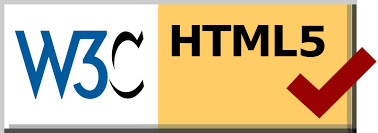
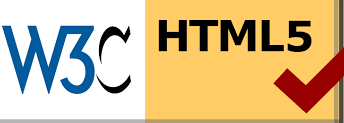
Add files via upload

diff --git a/thin_white_duke.html b/thin_white_duke.html
@@ -28,6 +28,7 @@
 						<li><a href="thin_white_duke.html"><span class="italic">Thin White Duke</span></a></li>
 						<li><a href="pierrot.html"><span class="italic">Pierrot</span></a></li>
 						<li><a href="references.html"><span class="italic">References</span></a></li>
+						<li><a href="#top"><span class="italic">(Top of the Page)</span></a></li>
 					</ul>
 				</div>
 			</nav>
@@ -36,7 +37,7 @@
                 	<h2 class = "quote whitequote"><span class="bold"><span class="italic">"Should I believe that I've been stricken?</span></span></h2> 
                 	<h2 class = "quote whitequote"><span class="bold"><span class="italic">Does my face show some kind of glow?"</span></span></h2>
                 	<br>
-                	<p id ="quoteauthor2">- Bowie, <span class="italic">Station to Station</span> from album <span class="italic">Station to Station</span>, 1976</p>
+                	<p id ="quoteauthor2">- Bowie, <span class="italic">Station to Station</span> from album <span="italic">Station to Station</span>, 1976</p>
 			
 			<h1><br></h1>
 			<p class="descriptioncenter dukecolor bigdescriptiontext explanationpage">In 1976, David Bowie transformed into his darkest character. Fueled by the drug habits he had developed over the past few years, Bowie became the Thin White Duke, a persona inspired by Old European and fascist mythology. This nasty and emotionless character not only drove Bowie to new heights artistically, but also marked the lowest point in Bowie’s life.</p>
@@ -90,14 +91,26 @@
 
 			<h1><br></h1>
 			<h2 class="headingright dukeheadercolor">Appearances</h2>
-			<p class="descriptionright dukecolor">The Duke appeared in interviews Bowie partook in 1976, the artwork for Station to Station era music and on the Isolar tour, the tour that followed the release of the <span class="italic">Station to Station</span> album. Bowie’s public image was hurt by the Duke’s appearances, since controversy was raised over the Duke’s statements and actions. Examples include when the Duke performed the nazi salute in front of a crowd of people while making his way to a performance or when the Duke claimed that Hitler was the first true rockstar. Bowie eventually stated years later that this was all performance art and that he didn’t truly believe in fascism, but then again, who would admit to once liking the Nazis. Eventually though, Bowie quietly retired the character after moving to Berlin the next year to try to kick his drug addiciton.</p>
+			<p class="descriptionright dukecolor">The Duke appeared in interviews Bowie partook in 1976, the artwork for Station to Station era music and on the Isolar tour, the tour that followed the release of the <span="italic">Station to Station</span> album. Bowie’s public image was hurt by the Duke’s appearances, since controversy was raised over the Duke’s statements and actions. Examples include when the Duke performed the nazi salute in front of a crowd of people while making his way to a performance or when the Duke claimed that Hitler was the first true rockstar. Bowie eventually stated years later that this was all performance art and that he didn’t truly believe in fascism, but then again, who would admit to once liking the Nazis. Eventually though, Bowie quietly retired the character after moving to Berlin the next year to try to kick his drug addiciton.</p>
 			<h1><br></h1>
 			<div class="aligncenter">
 				<img class="widecenteredimage displayblock" src="images/thin_white_duke.jpg" alt="Thin White Duke Performing" width="900">
 			</div>
 			<h1><br></h1>
-			
-			
+
+			<footer class="footercolor">
+				<p>
+    					<a href="https://jigsaw.w3.org/css-validator/validator?uri=https%3A%2F%2Fwanjonathan.github.io%2Fhome%2Fthin_white_duke.html&profile=css3svg&usermedium=all&warning=1&vextwarning=&lang=en">
+        				<img class="valid" src="https://jigsaw.w3.org/css-validator/images/vcss" alt="Valid CSS!">
+    					</a>
+				</p>
+				<p>
+    					<a href="https://validator.w3.org/nu/?doc=https%3A%2F%2Fwanjonathan.github.io%2Fhome%2Fthin_white_duke.html">
+        				<img class="valid" src="images/html_validator.png" alt="Valid HTML!">
+    					</a>
+				</p>
+			</footer>
+	
 		</div>
   	</body>
 </html>

diff --git a/pierrot.html b/pierrot.html
@@ -27,6 +27,7 @@
 							<li><a href="thin_white_duke.html"><span class="italic">Thin White Duke</span></a></li>
 							<li><a href="pierrot.html"><span class="italic">Pierrot</span></a></li>
 							<li><a href="references.html"><span class="italic">References</span></a></li>
+							<li><a href="#top"><span class="italic">(Top of the Page)</span></a></li>
 						</ul>
 					</div>
 				</div>
@@ -102,6 +103,19 @@
 			<h2 class="headingright pierrotheadercolor">Appearances</h2>
 			<p class="descriptionright pierrotcolor">Unlike other Bowie personas, Pierrot only existed for a small span of Bowie's career and Pierrot never really interacted with the public like Ziggy Stardust or the Thin White Duke did. Instead, Pierrot was confined to simply the album's artwork and the "Ashes to Ashes" music video. In the "Ashes to Ashes" music video, Pierrot narrates the downfall of one of Bowie's other personas, Major Tom, while the video of him and his surroundings is deepfried in the music video. Meanwhile, Pierrot is heavily depicted in the artwork of the singles and the album. For example, a sketch of Pierrot is proudly displayed on the album's artwork. After the album's run ended, the persona of Pierrot was quietly retired and promptly forgotten to most David Bowie fans.</p>
 			<h1><br></h1>
+
+			<footer class="footercolor">
+				<p>
+    					<a href="https://jigsaw.w3.org/css-validator/validator?uri=https%3A%2F%2Fwanjonathan.github.io%2Fbowiepersonas%2Fpierrot.html&profile=css3svg&usermedium=all&warning=1&vextwarning=&lang=en">
+        				<img class="valid" src="https://jigsaw.w3.org/css-validator/images/vcss" alt="Valid CSS!">
+    					</a>
+				</p>
+				<p>
+    					<a href="https://validator.w3.org/nu/?doc=https%3A%2F%2Fwanjonathan.github.io%2Fhome%2Fpierrot.html">
+        				<img class="valid" src="images/html_validator.png" alt="Valid HTML!">
+    					</a>
+				</p>
+			</footer>
 		
 		</div>
   	</body>

diff --git a/index.html b/index.html
@@ -28,6 +28,7 @@
 						<li><a href="thin_white_duke.html"><span class="italic">Thin White Duke</span></a></li>
 						<li><a href="pierrot.html"><span class="italic">Pierrot</span></a></li>
 						<li><a href="references.html"><span class="italic">References</span></a></li>
+						<li><a href="#top"><span class="italic">(Top of the Page)</span></a></li>
 					</ul>
 				</div>
 			</nav>
@@ -74,14 +75,20 @@
 				<p class="descriptioncenter">For a comprehensive list of Bowie personas, try exploring the <a href="https://david-bowie.fandom.com/wiki/Category:Personas">Bowie fandom</a>.</p>
 				<h1><br></h1>
 			</div>
-			<footer id="footercolorhome">
+
+			<footer class="footercolor">
 				<p>
     					<a href="https://jigsaw.w3.org/css-validator/validator?uri=https%3A%2F%2Fwanjonathan.github.io%2Fbowiepersonas%2Findex.html&profile=css3svg&usermedium=all&warning=1&vextwarning=&lang=en">
-        				<img class="cssvalid" src="https://jigsaw.w3.org/css-validator/images/vcss" alt="Valid CSS!">
+        				<img class="valid" src="https://jigsaw.w3.org/css-validator/images/vcss" alt="Valid CSS!">
     					</a>
-
+				</p>
+				<p>
+    					<a href="https://validator.w3.org/nu/?doc=https%3A%2F%2Fwanjonathan.github.io%2Fhome%2Findex.html">
+        				<img class="valid" src="images/html_validator.png" alt="Valid HTML!">
+    					</a>
 				</p>
 			</footer>
+
 		</div>
 	</body>
 </html>

diff --git a/ziggy.html b/ziggy.html
@@ -26,6 +26,7 @@
 						<li><a href="thin_white_duke.html"><span class="italic">Thin White Duke</span></a></li>
 						<li><a href="pierrot.html"><span class="italic">Pierrot</span></a></li>
 						<li><a href="references.html"><span class="italic">References</span></a></li>
+						<li><a href="#top"><span class="italic">(Top of the Page)</span></a></li>
 					</ul>
 				</div>
 			</nav>
@@ -96,6 +97,19 @@
 				<img class="widecenteredimage displayblock" src="images/ziggy_spreading_arms.jpg" alt="Ziggy Spreading Arms" width="750">
 			</div>
 			<h1><br></h1>
+
+			<footer class="footercolor">
+				<p>
+    					<a href="https://jigsaw.w3.org/css-validator/validator?uri=https%3A%2F%2Fwanjonathan.github.io%2Fhome%2Fziggy.html&profile=css3svg&usermedium=all&warning=1&vextwarning=&lang=en">
+        				<img class="valid" src="https://jigsaw.w3.org/css-validator/images/vcss" alt="Valid CSS!">
+    					</a>
+				</p>
+				<p>
+    					<a href="https://validator.w3.org/nu/?doc=https%3A%2F%2Fwanjonathan.github.io%2Fhome%2Fziggy.html">
+        				<img class="valid" src="images/html_validator.png" alt="Valid HTML!">
+    					</a>
+				</p>
+			</footer>
 
 		</div>
   	</body>

diff --git a/major_tom.html b/major_tom.html
@@ -29,6 +29,7 @@
 						<li><a href="thin_white_duke.html"><span class="italic">Thin White Duke</span></a></li>
 						<li><a href="pierrot.html"><span class="italic">Pierrot</span></a></li>
 						<li><a href="references.html"><span class="italic">References</span></a></li>
+						<li><a href="#top"><span class="italic">(Top of the Page)</span></a></li>
 					</ul>
 				</div>
 			</nav>
@@ -97,6 +98,18 @@
 			</div>
 			
 			<h1><br></h1>
+			<footer class="footercolor">
+				<p>
+    					<a href="https://jigsaw.w3.org/css-validator/validator?uri=https%3A%2F%2Fwanjonathan.github.io%2Fhome%2Fmajor_tom.html&profile=css3svg&usermedium=all&warning=1&vextwarning=&lang=en">
+        				<img class="valid" src="https://jigsaw.w3.org/css-validator/images/vcss" alt="Valid CSS!">
+    					</a>
+				</p>
+				<p>
+    					<a href="https://validator.w3.org/nu/?doc=https%3A%2F%2Fwanjonathan.github.io%2Fhome%2Fmajor_tom.html">
+        				<img class="valid" src="images/html_validator.png" alt="Valid HTML!">
+    					</a>
+				</p>
+			</footer>
 
 		</div>
   	</body>

diff --git a/style.css b/style.css
@@ -621,17 +621,11 @@ footer{
     color: white;
 }
 
-#footercolorhome {
+.footercolor{
     background-color: rgb(17, 34, 66);
 }
 
-.cssvalid{
-    border:0; 
-    width:88px;
-    height:31px
-}
-
-.htmlvalid{
+.valid{
     border:0; 
     width:88px;
     height:31px
